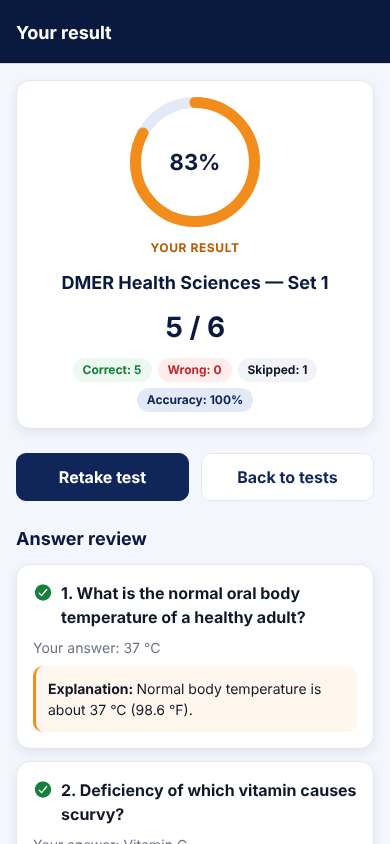
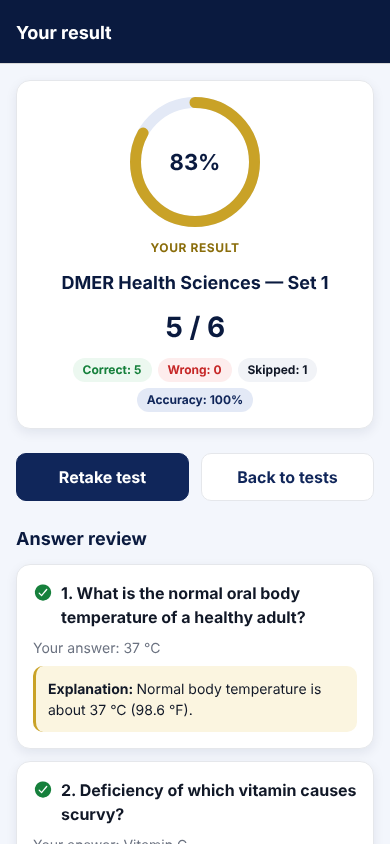
Docs: Lakshya Academy README and refreshed screenshots
Claude-Session: https://claude.ai/code/session_01BGnBLJXN8g3Kd62ycafaYg

Changed region(s): [[0.3077, 0.0924, 0.6769, 0.3081], [0.0615, 0.8009, 0.0923, 0.8626]]

diff --git a/README.md b/README.md
@@ -1,4 +1,4 @@
-# Sam Xplains studio + Pragati Academy platform
+# Sam Xplains studio + लक्ष्य Academy platform
 
 This repository holds two independent projects:
 
@@ -24,11 +24,15 @@ Shortcuts from the repo root: `npm run video:install`, `npm run video:dev`, `npm
 
 ---
 
-# Pragati Academy — Student Platform
+# लक्ष्य Academy (Lakshya Academy) — Student Platform
 
 Web + Android learning platform for an independent coaching institute in Maharashtra, preparing students for **MPSC Group C**, **Group D** and **DMER** recruitment exams. Fully bilingual: **मराठी** and **English**.
 
-> "Pragati Academy" is a placeholder name. Change it in `packages/core/src/data/brand.ts` (and `apps/mobile/app.json`).
+> **ध्येय तुमचे, मार्गदर्शन आमचे!** — navy blue and gold.
+>
+> - Name and tagline: `packages/core/src/data/brand.ts`. Colours and the target-and-arrow mark: `packages/design/src/index.ts`, `packages/design/src/brand.ts`.
+> - App icon, adaptive icon, splash and favicons are generated from the mark: `node --no-warnings packages/design/scripts/generate-brand-assets.mjs` (needs Playwright/Chromium).
+> - Android package ID is configurable until final verification: set `ANDROID_PACKAGE` (default placeholder `com.lakshyaacademy.app`), or use the *android_package* input of the APK workflow. It can never change after a Play Store release.
 
 | Web (desktop, Marathi) | Android app |
 | --- | --- |
@@ -41,6 +45,7 @@ Web + Android learning platform for an independent coaching institute in Maharas
 - **Tests** — 4 practice sets (32 real, bilingual questions) with a working timer, question palette, auto-submit, negative marking, scored results and answer review with explanations. Scheduled full mocks are listed but locked.
 - **Study material** — notes, previous papers, current affairs, formula sheets with key points.
 - **Profile** — change target exam and language, see progress, reset.
+- **Login / registration previews** — branded screens with mobile-number validation; design only, nothing is saved or sent until accounts launch.
 - **Marathi ⇄ English** everywhere, remembered between visits.
 - Progress is saved **on the device** (browser storage / Android AsyncStorage).
 
